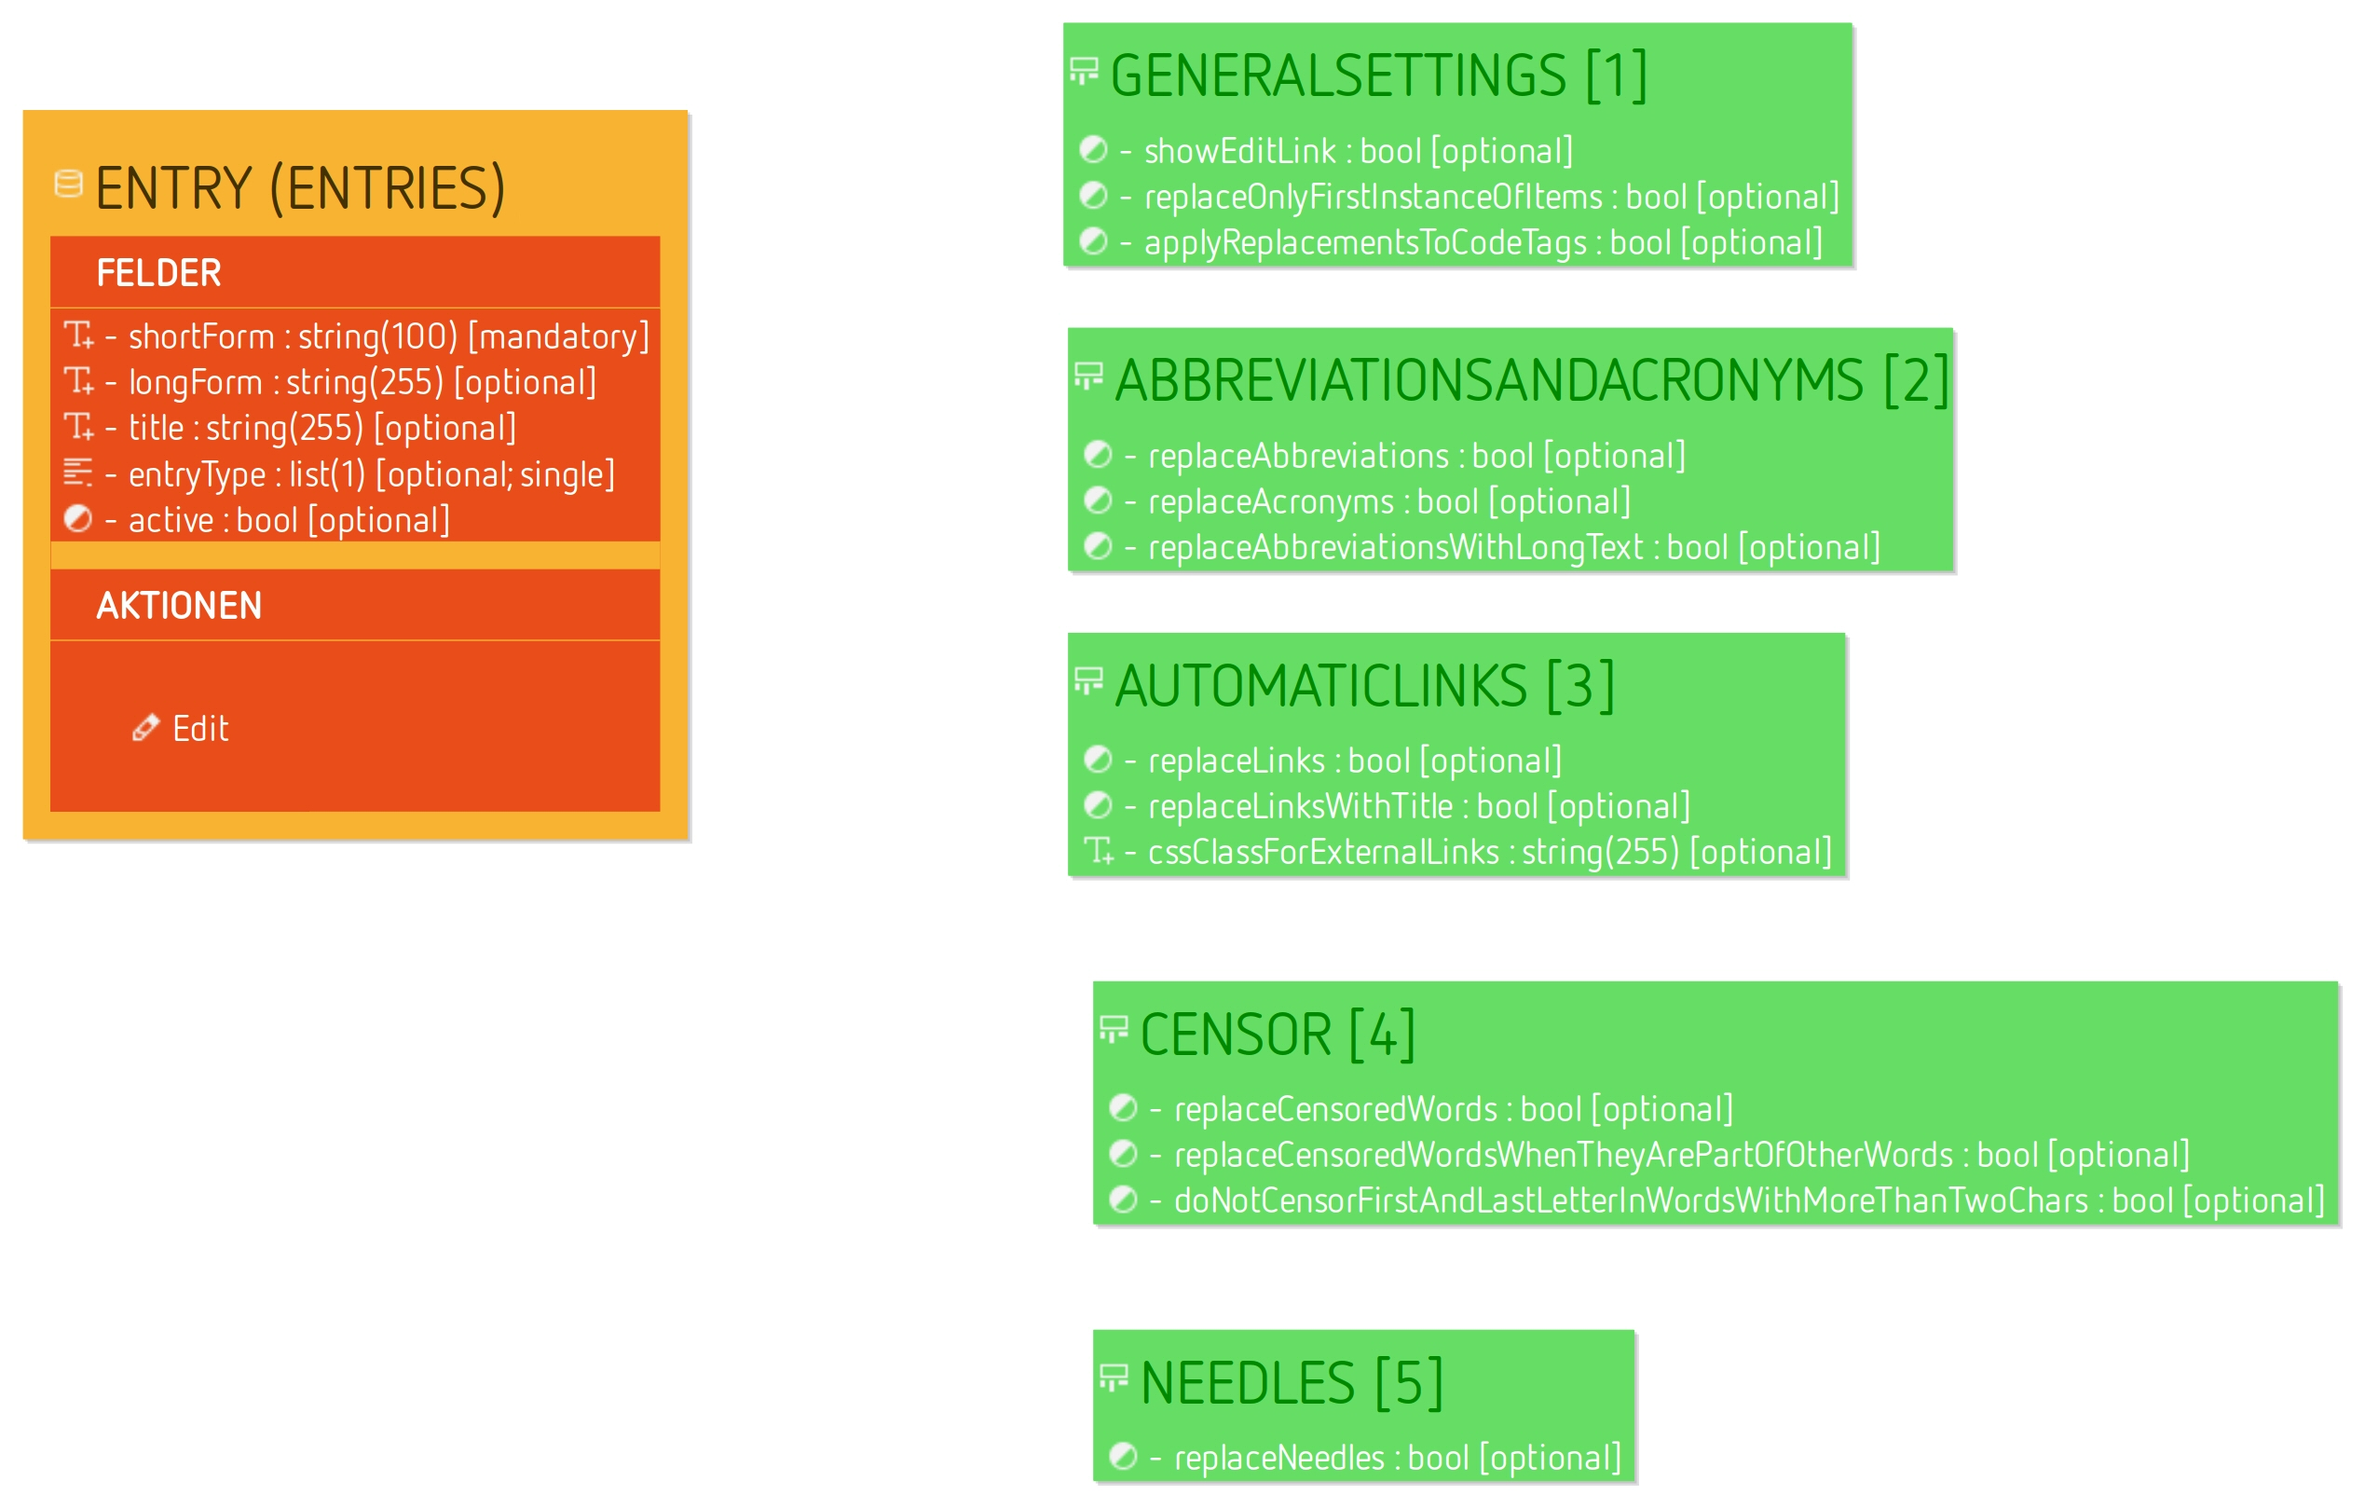
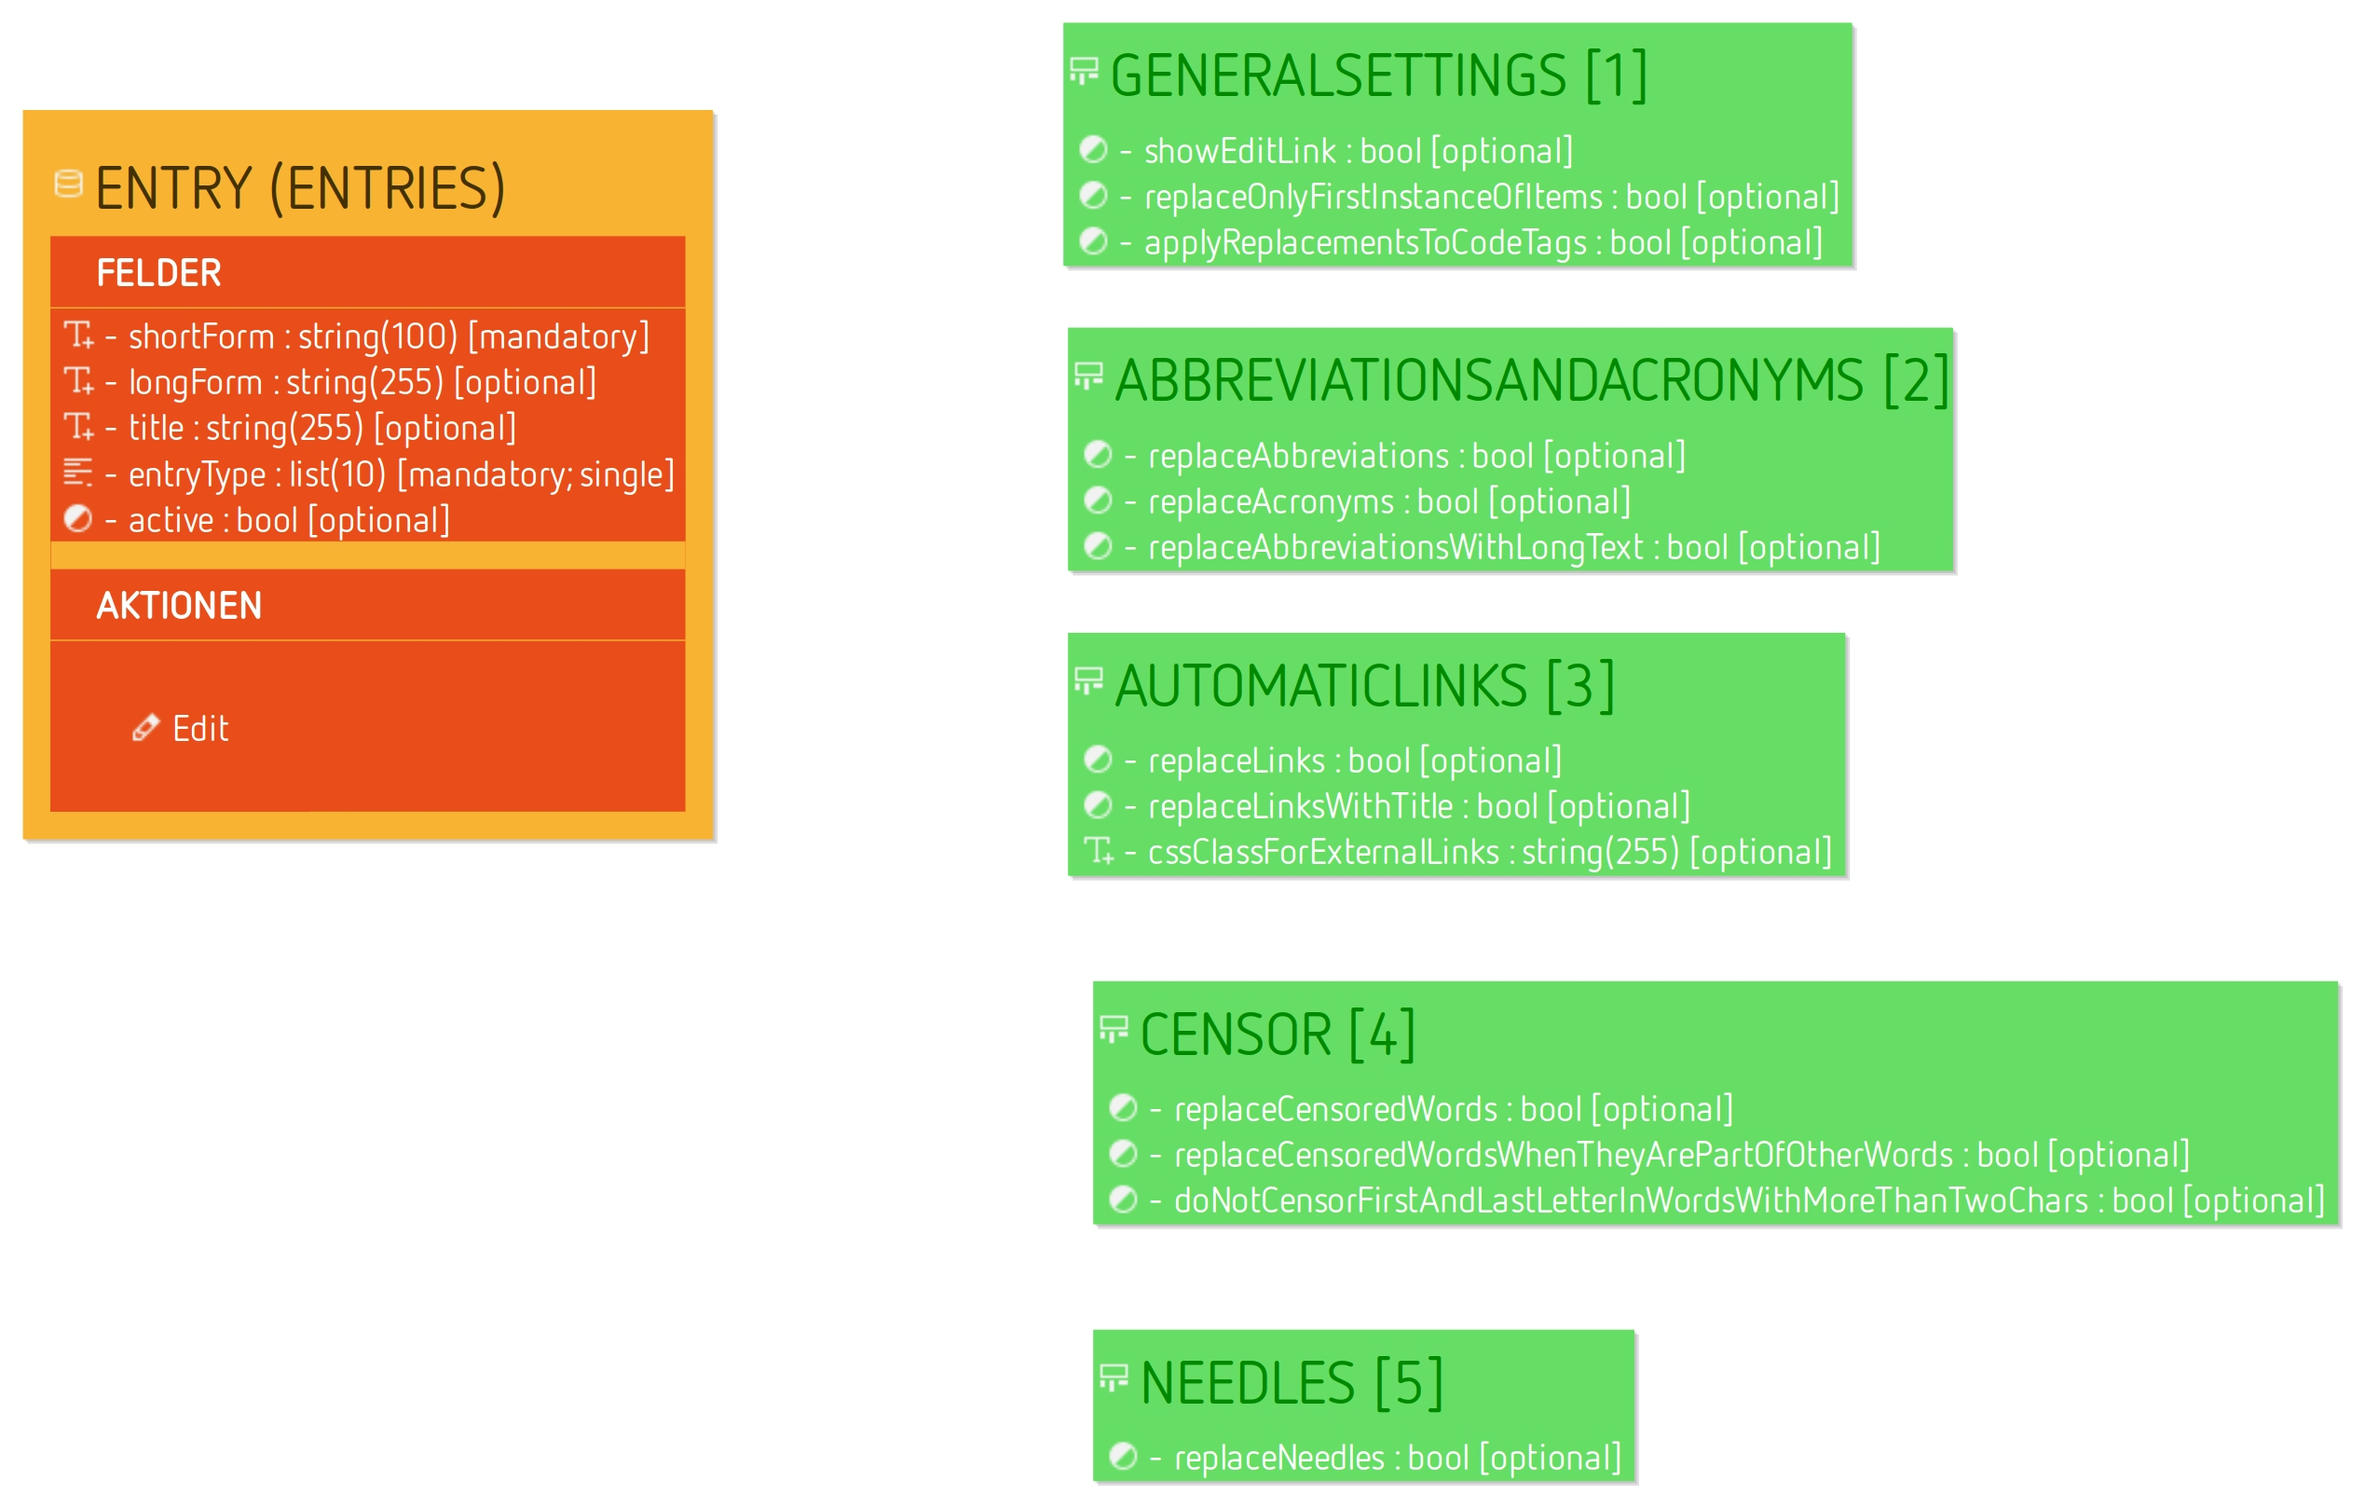
use textual values for entry types

Changed region(s): [[0.1556, 0.0618, 0.3113, 0.5562]]

diff --git a/src/modules/Zikula/MultiHookModule/Resources/docs/model/structure_de.html b/src/modules/Zikula/MultiHookModule/Resources/docs/model/structure_de.html
@@ -262,19 +262,19 @@
             <tr>
                 <th id="hEntityEntryFieldEntryType" scope="row" headers="hEntityEntryFieldName">Entry type</th>
                 <td headers="hEntityEntryFieldEntryType hEntityEntryFieldType">Liste</td>
-                <td headers="hEntityEntryFieldEntryType hEntityEntryFieldMandatory">false</td>
+                <td headers="hEntityEntryFieldEntryType hEntityEntryFieldMandatory">true</td>
                 <td headers="hEntityEntryFieldEntryType hEntityEntryFieldDefault"></td>
                 <td headers="hEntityEntryFieldEntryType hEntityEntryFieldDisplayType">ALL</td>
                 <td headers="hEntityEntryFieldEntryType hEntityEntryFieldConstraints">
                     <ul>
-                        <li>Hat eine Länge von 1 Zeichen.</li>
+                        <li>Hat eine Länge von 10 Zeichen.</li>
                     </ul>
                 </td>
                 <td headers="hEntityEntryFieldEntryType hEntityEntryFieldRemarks">
                     <ul>
                         <li>Dieses Feld ist nicht eindeutig und erlaubt keine Null-Werte.</li>
                         <li>Die Liste wird durch eine einwertige Dropdownliste repräsentiert.</li>
-                        <li>Verfügbare Einträge: <ul><li>Abbreviation (0)</li><li>Acronym (1)</li><li>Link (2)</li><li>Censored word (3)</li></ul></li>
+                        <li>Verfügbare Einträge: <ul><li>Abbreviation (abbr)</li><li>Acronym (acronym)</li><li>Link (link)</li><li>Censored word (censor)</li></ul></li>
                     </ul>
                 </td>
             </tr>

diff --git a/src/modules/Zikula/MultiHookModule/Resources/docs/model/structure_en.html b/src/modules/Zikula/MultiHookModule/Resources/docs/model/structure_en.html
@@ -262,19 +262,19 @@
             <tr>
                 <th id="hEntityEntryFieldEntryType" scope="row" headers="hEntityEntryFieldName">Entry type</th>
                 <td headers="hEntityEntryFieldEntryType hEntityEntryFieldType">List</td>
-                <td headers="hEntityEntryFieldEntryType hEntityEntryFieldMandatory">false</td>
+                <td headers="hEntityEntryFieldEntryType hEntityEntryFieldMandatory">true</td>
                 <td headers="hEntityEntryFieldEntryType hEntityEntryFieldDefault"></td>
                 <td headers="hEntityEntryFieldEntryType hEntityEntryFieldDisplayType">ALL</td>
                 <td headers="hEntityEntryFieldEntryType hEntityEntryFieldConstraints">
                     <ul>
-                        <li>Has a length of 1 chars.</li>
+                        <li>Has a length of 10 chars.</li>
                     </ul>
                 </td>
                 <td headers="hEntityEntryFieldEntryType hEntityEntryFieldRemarks">
                     <ul>
                         <li>This field is not unique and allows no null values.</li>
                         <li>The list is represented by a single-valued dropdown list.</li>
-                        <li>Available entries: <ul><li>Abbreviation (0)</li><li>Acronym (1)</li><li>Link (2)</li><li>Censoredword (3)</li></ul></li>
+                        <li>Available entries: <ul><li>Abbreviation (abbr)</li><li>Acronym (acronym)</li><li>Link (link)</li><li>Censoredword (censor)</li></ul></li>
                     </ul>
                 </td>
             </tr>

diff --git a/src/modules/Zikula/MultiHookModule/HookProvider/FilterHooksProvider.php b/src/modules/Zikula/MultiHookModule/HookProvider/FilterHooksProvider.php
@@ -126,16 +126,16 @@ class FilterHooksProvider extends AbstractFilterHooksProvider
 
         $entryTypes = [];
         if (true === $replaceAbbreviations) {
-            $entryTypes[] = '0';
+            $entryTypes[] = 'abbr';
         }
         if (true === $replaceAcronyms) {
-            $entryTypes[] = '1';
+            $entryTypes[] = 'acronym';
         }
         if (true === $replaceLinks) {
-            $entryTypes[] = '2';
+            $entryTypes[] = 'link';
         }
         if (true === $replaceCensoredWords) {
-            $entryTypes[] = '3';
+            $entryTypes[] = 'censor';
         }
 
         $needles = [];
@@ -215,7 +215,7 @@ class FilterHooksProvider extends AbstractFilterHooksProvider
             $entities = [];
             if (count($entryTypes) > 0) {
                 $entities = $this->entityFactory->getRepository('entry')
-                    ->selectWhere('tbl.active = 1 AND tbl.entryType IN (' . implode(', ', $entryTypes) . ')');
+                    ->selectWhere('tbl.active = 1 AND tbl.entryType IN (\'' . implode('\', \'', $entryTypes) . '\')');
             }
 
             // Create search/replace array from abbreviations/links information
@@ -232,31 +232,28 @@ class FilterHooksProvider extends AbstractFilterHooksProvider
                 // check if the current tmp is a link
                 //save original long
                 $tmp['long_original'] = $tmp['longform'];
-                if ($tmp['type'] == 2) {
+                if ('link' == $tmp['type']) {
                     $tmp['longform'] = $this->hookHelper->createAbsoluteUrl($tmp['longform'], $baseUrl);
                 }
 
                 $tmp['longform'] = preg_replace('/(\b)/', '\\1MULTIHOOKTEMPORARY', $tmp['longform']);
                 $tmp['title'] = preg_replace('/(\b)/', '\\1MULTIHOOKTEMPORARY', $tmp['title']);
 
-                if ($tmp['type'] == 0) {
-                    // 0 = Abbreviation
+                if ('abbr' == $tmp['type']) {
                     $search_temp = '/(?<![\/\w@\.:])(' . preg_quote($tmp['shortform'], '/'). ')(?![\/\w@])(?!\.\w)/i';
                     $search[] = $search_temp;
                     $replace[] = md5($search_temp);
                     $finalsearch[] = '/' . preg_quote(md5($search_temp), '/') . '/';
                     $finalreplace[] = $this->hookHelper->createAbbr($tmp, $showEditLink);
                     unset($search_temp);
-                } elseif ($tmp['type'] == 1) {
-                    // 1 = Acronym
+                } elseif ('acronym' == $tmp['type']) {
                     $search_temp = '/(?<![\/\w@\.:])(' . preg_quote($tmp['shortform'], '/'). ')(?![\/\w@])(?!\.\w)/i';
                     $search[] = $search_temp;
                     $replace[] = md5($search_temp);
                     $finalsearch[] = '/' . preg_quote(md5($search_temp), '/') . '/';
                     $finalreplace[] = $this->hookHelper->createAcronym($tmp, $showEditLink);
                     unset($search_temp);
-                } elseif ($tmp['type'] == 2) {
-                    // 2 = Link
+                } elseif ('link' == $tmp['type']) {
                     // don't show link if the target is the current url
                     if (in_array($tmp['long_original'], [$request->getUri(), $request->getRequestUri()])) {
                         continue;
@@ -274,7 +271,7 @@ class FilterHooksProvider extends AbstractFilterHooksProvider
                     $finalsearch[] = '/' . preg_quote(md5($search_temp), '/') . '/';
                     $finalreplace[] = $this->hookHelper->createLink($tmp, $showEditLink);
                     unset($search_temp);
-                } elseif ($tmp['type'] == 3) {
+                } elseif ('censor' == $tmp['type']) {
                     // original censored word
                     if (false === $replaceCensoredWordsWhenTheyArePartOfOtherWords) {
                         $search_temp = '/(?<![\/\w@\.:])(' . preg_quote($tmp['shortform'], '/'). ')(?![\/\w@])(?!\.\w)/i';

diff --git a/src/modules/Zikula/MultiHookModule/Form/Type/EntryType.php b/src/modules/Zikula/MultiHookModule/Form/Type/EntryType.php
@@ -11,8 +11,6 @@
 
 namespace Zikula\MultiHookModule\Form\Type;
 
-use Symfony\Component\Form\Extension\Core\Type\ChoiceType;
-use Symfony\Component\Form\FormBuilderInterface;
 use Zikula\MultiHookModule\Form\Type\Base\AbstractEntryType;
 
 /**
@@ -20,33 +18,5 @@ use Zikula\MultiHookModule\Form\Type\Base\AbstractEntryType;
  */
 class EntryType extends AbstractEntryType
 {
-    /**
-     * @inheritDoc
-     */
-    public function addEntityFields(FormBuilderInterface $builder, array $options = [])
-    {
-        parent::addEntityFields($builder, $options);
-
-        $listEntries = $this->listHelper->getEntries('entry', 'entryType');
-        $choices = [];
-        $choiceAttributes = [];
-        foreach ($listEntries as $entry) {
-            $choices[$entry['text']] = $entry['value'];
-            $choiceAttributes[$entry['text']] = ['title' => $entry['title']];
-        }
-        $builder->add('entryType', ChoiceType::class, [
-            'label' => $this->__('Entry type') . ':',
-            'empty_data' => '',
-            'attr' => [
-                'class' => '',
-                'title' => $this->__('Choose the entry type.')
-            ],
-            'required' => false,
-            'placeholder' => false,//$this->__('Choose an option'),
-            'choices' => $choices,
-            'choice_attr' => $choiceAttributes,
-            'multiple' => false,
-            'expanded' => false
-        ]);
-    }
+    // feel free to extend the base form type class here
 }

diff --git a/src/modules/Zikula/MultiHookModule/Helper/Base/AbstractListEntriesHelper.php b/src/modules/Zikula/MultiHookModule/Helper/Base/AbstractListEntriesHelper.php
@@ -226,28 +226,28 @@ abstract class AbstractListEntriesHelper
     {
         $states = [];
         $states[] = [
-            'value'   => '0',
+            'value'   => 'abbr',
             'text'    => $this->__('Abbreviation'),
             'title'   => '',
             'image'   => '',
             'default' => false
         ];
         $states[] = [
-            'value'   => '1',
+            'value'   => 'acronym',
             'text'    => $this->__('Acronym'),
             'title'   => '',
             'image'   => '',
             'default' => false
         ];
         $states[] = [
-            'value'   => '2',
+            'value'   => 'link',
             'text'    => $this->__('Link'),
             'title'   => '',
             'image'   => '',
             'default' => false
         ];
         $states[] = [
-            'value'   => '3',
+            'value'   => 'censor',
             'text'    => $this->__('Censored word'),
             'title'   => '',
             'image'   => '',

diff --git a/src/modules/Zikula/MultiHookModule/Form/Type/Base/AbstractEntryType.php b/src/modules/Zikula/MultiHookModule/Form/Type/Base/AbstractEntryType.php
@@ -185,8 +185,7 @@ abstract class AbstractEntryType extends AbstractType
                 'class' => '',
                 'title' => $this->__('Choose the entry type.')
             ],
-            'required' => false,
-            'placeholder' => $this->__('Choose an option'),
+            'required' => true,
             'choices' => $choices,
             'choice_attr' => $choiceAttributes,
             'multiple' => false,

diff --git a/src/modules/Zikula/MultiHookModule/Entity/Base/AbstractEntryEntity.php b/src/modules/Zikula/MultiHookModule/Entity/Base/AbstractEntryEntity.php
@@ -88,8 +88,8 @@ abstract class AbstractEntryEntity extends EntityAccess implements Translatable
     protected $title = '';
     
     /**
-     * @ORM\Column(length=1)
-     * @Assert\NotNull()
+     * @ORM\Column(length=10)
+     * @Assert\NotBlank()
      * @MultiHookAssert\ListEntry(entityName="entry", propertyName="entryType", multiple=false)
      * @var string $entryType
      */

diff --git a/src/modules/Zikula/MultiHookModule/Base/bootstrap.php b/src/modules/Zikula/MultiHookModule/Base/bootstrap.php
@@ -6,7 +6,7 @@
  * @license http://www.gnu.org/licenses/lgpl.html GNU Lesser General Public License
  * @author Zikula Team <info@ziku.la>.
  * @link https://ziku.la
- * @version Generated by ModuleStudio 1.4.0 (https://modulestudio.de) at Sat Mar 02 18:01:37 CET 2019.
+ * @version Generated by ModuleStudio 1.4.0 (https://modulestudio.de) at Sat Mar 02 20:08:53 CET 2019.
  */
 
 /**

diff --git a/src/modules/Zikula/MultiHookModule/bootstrap.php b/src/modules/Zikula/MultiHookModule/bootstrap.php
@@ -6,7 +6,7 @@
  * @license http://www.gnu.org/licenses/lgpl.html GNU Lesser General Public License
  * @author Zikula Team <info@ziku.la>.
  * @link https://ziku.la
- * @version Generated by ModuleStudio 1.4.0 (https://modulestudio.de) at Sat Mar 02 18:01:37 CET 2019.
+ * @version Generated by ModuleStudio 1.4.0 (https://modulestudio.de) at Sat Mar 02 20:08:53 CET 2019.
  */
 
 /**

diff --git a/README.md b/README.md
@@ -63,6 +63,7 @@ Structural changes:
 - Entirely rewritten for Zikula 2.0.x using ModuleStudio.
 
 New features:
+- Translatable functionality for multilingual entries.
 - New settings for configuring which replacements should be enabled/disabled (#1).
 - Checkbox column for mass deletion (#2).
 
